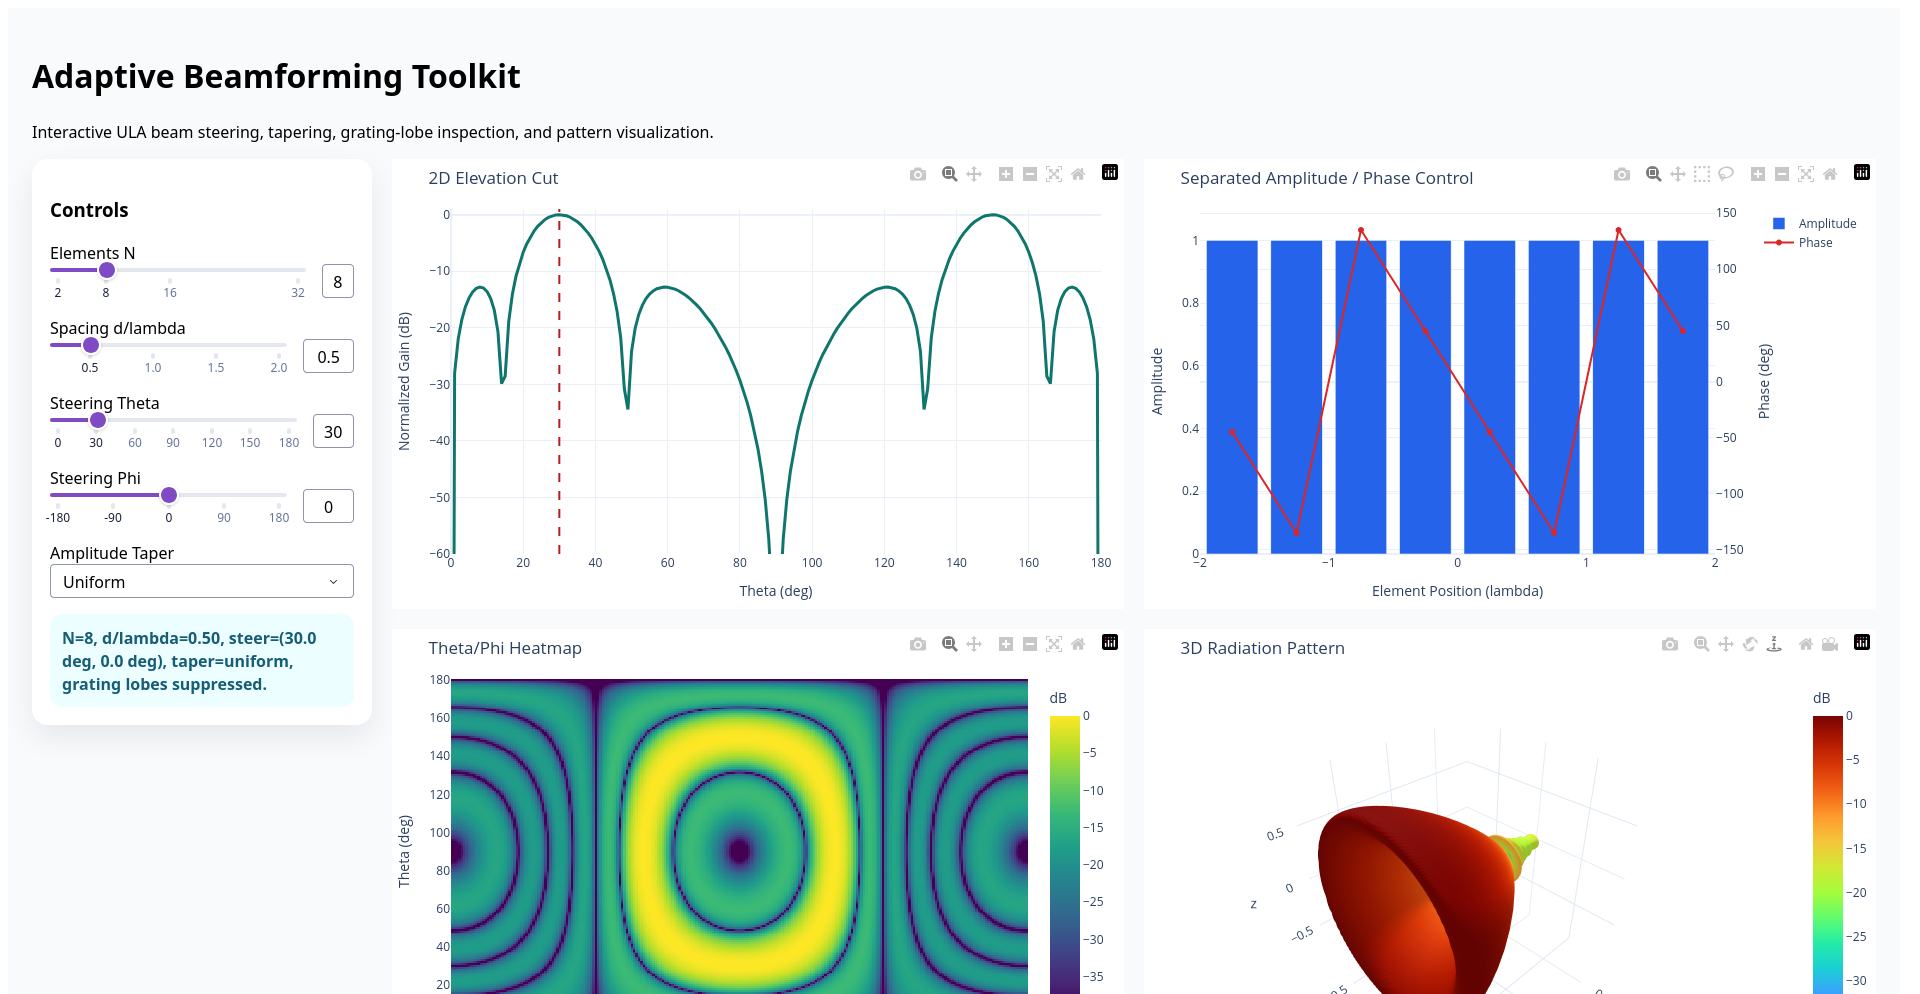
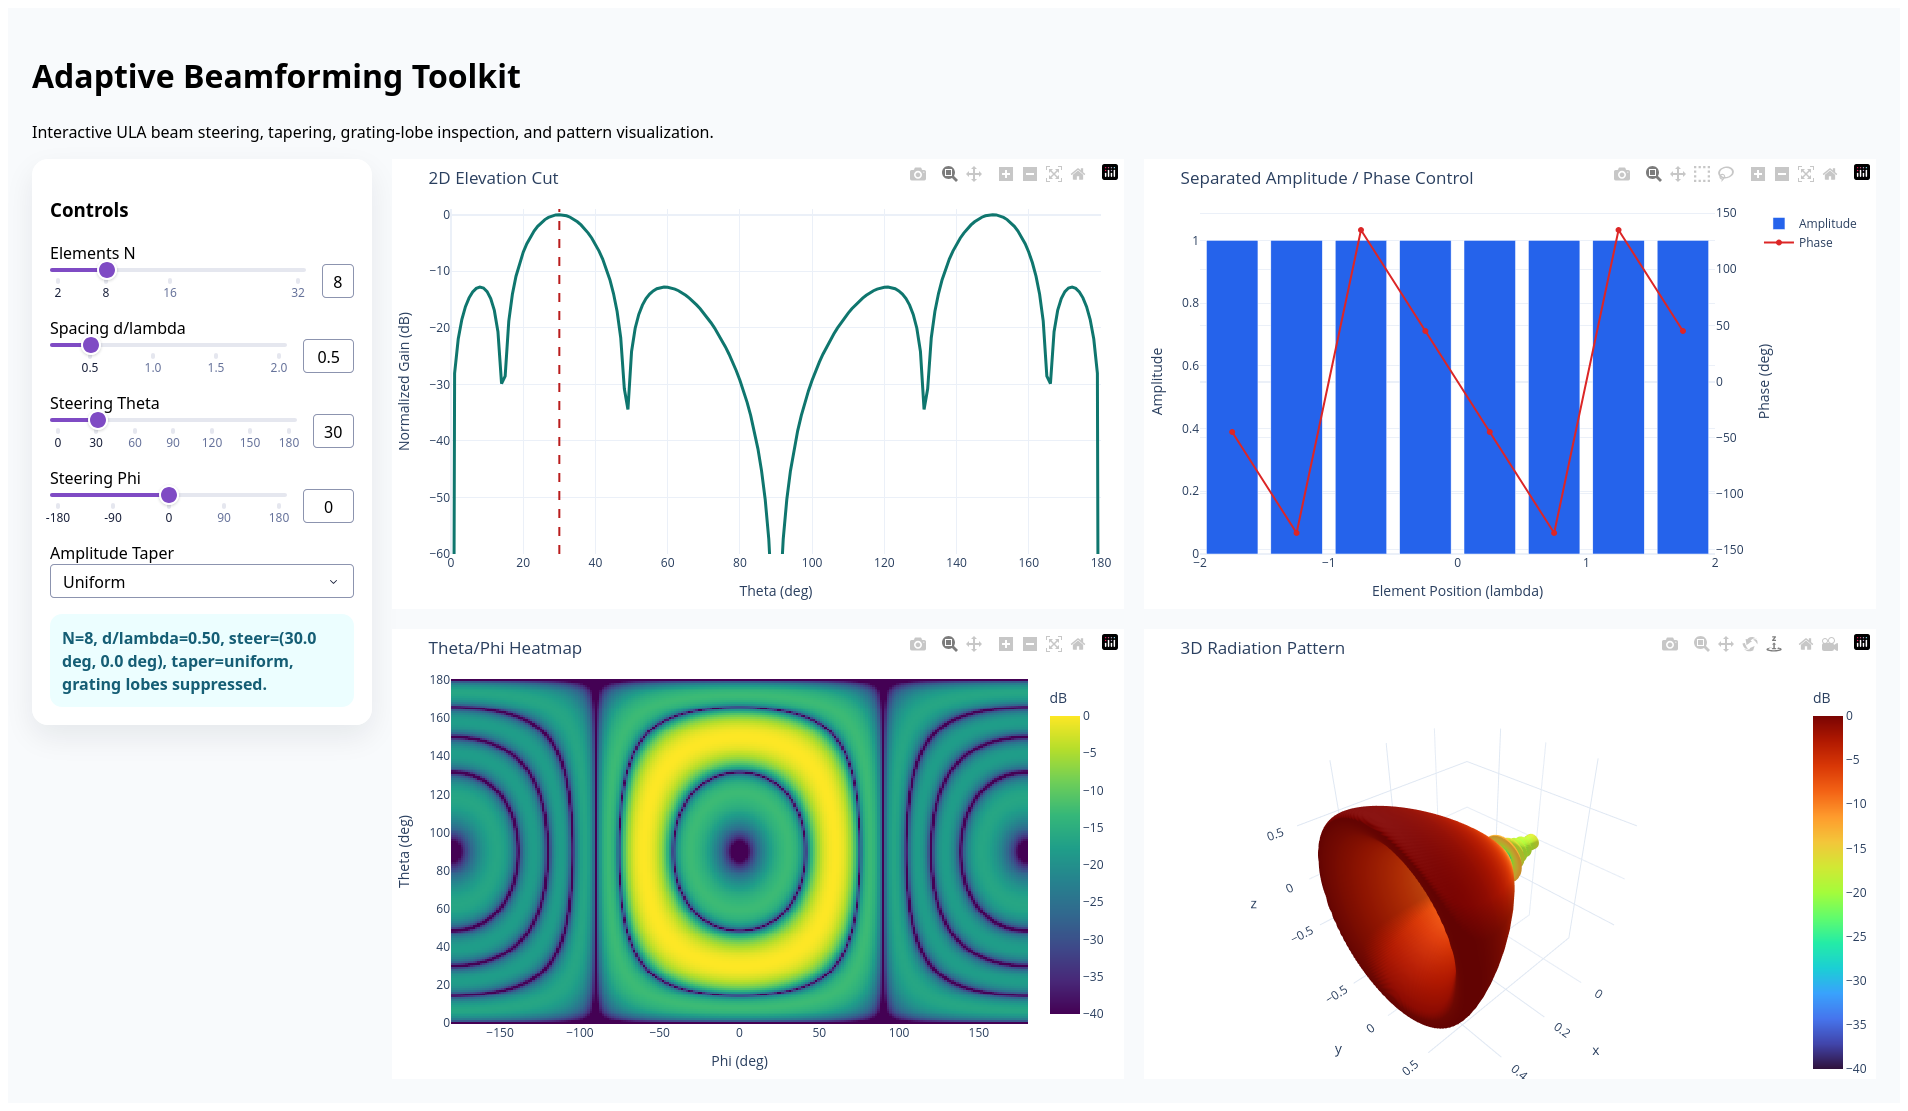
Fix packaged CLI simulation install

diff --git a/abf/__init__.py b/abf/__init__.py
@@ -1,6 +1,6 @@
 """Public package surface for Adaptive Beamforming Toolkit."""
 
-from . import algorithms, core, data, ml, simulations, visualize
+from importlib import import_module
 
 __all__ = [
     "algorithms",
@@ -10,3 +10,11 @@ __all__ = [
     "simulations",
     "visualize",
 ]
+
+
+def __getattr__(name: str):
+    if name in __all__:
+        module = import_module(f"{__name__}.{name}")
+        globals()[name] = module
+        return module
+    raise AttributeError(f"module {__name__!r} has no attribute {name!r}")
